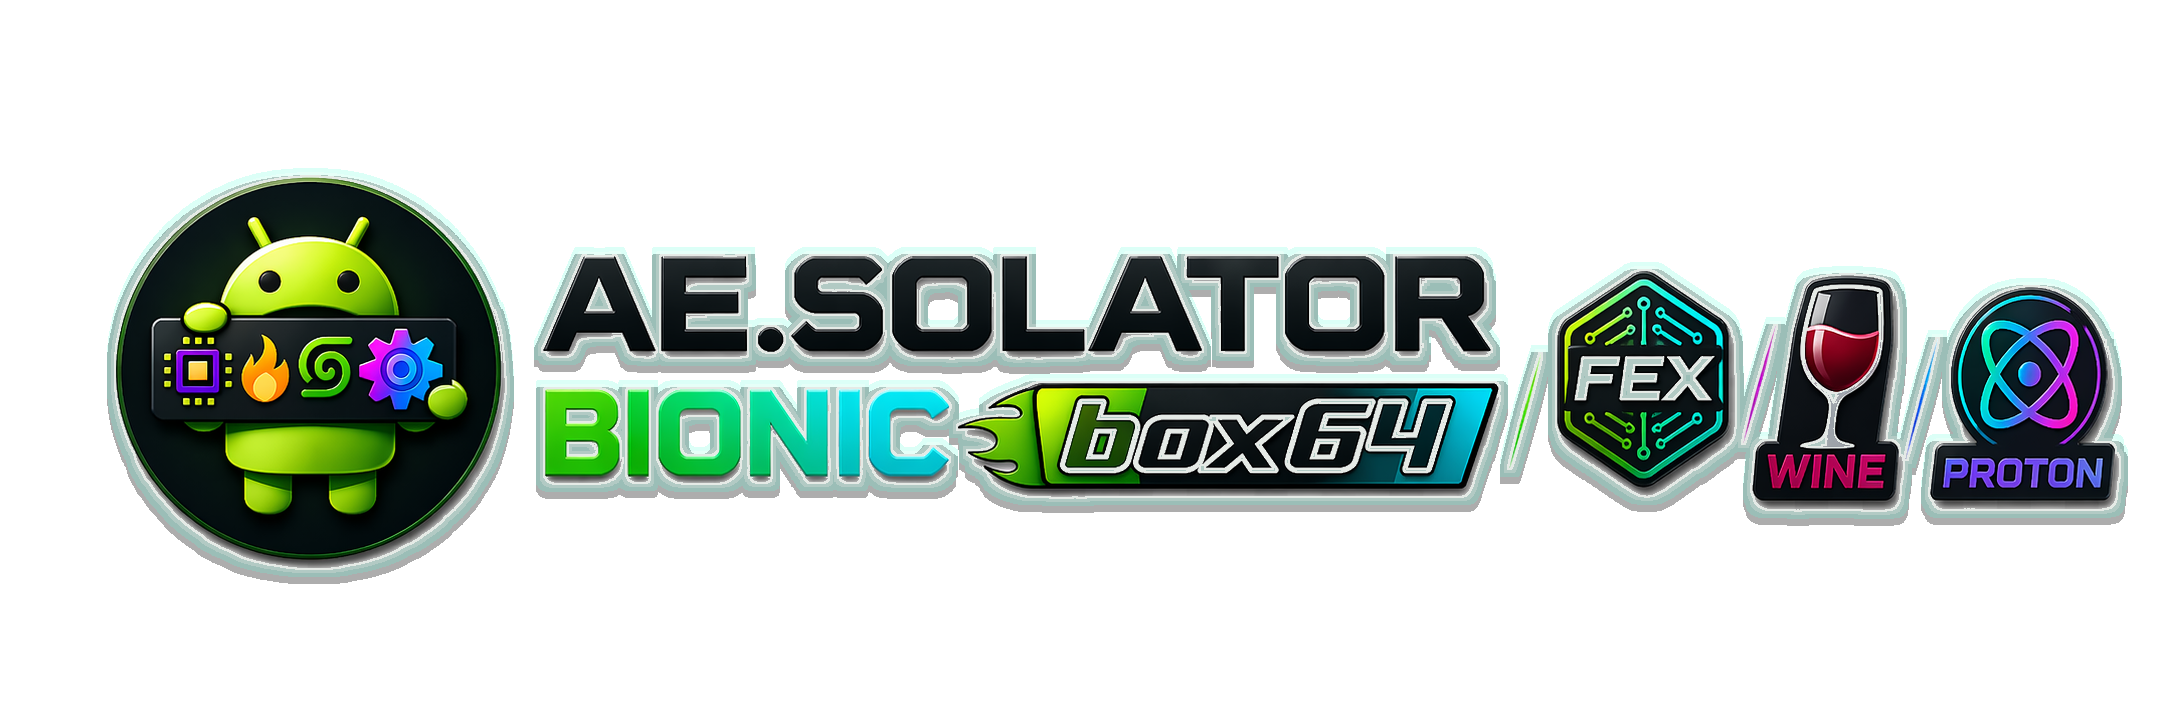
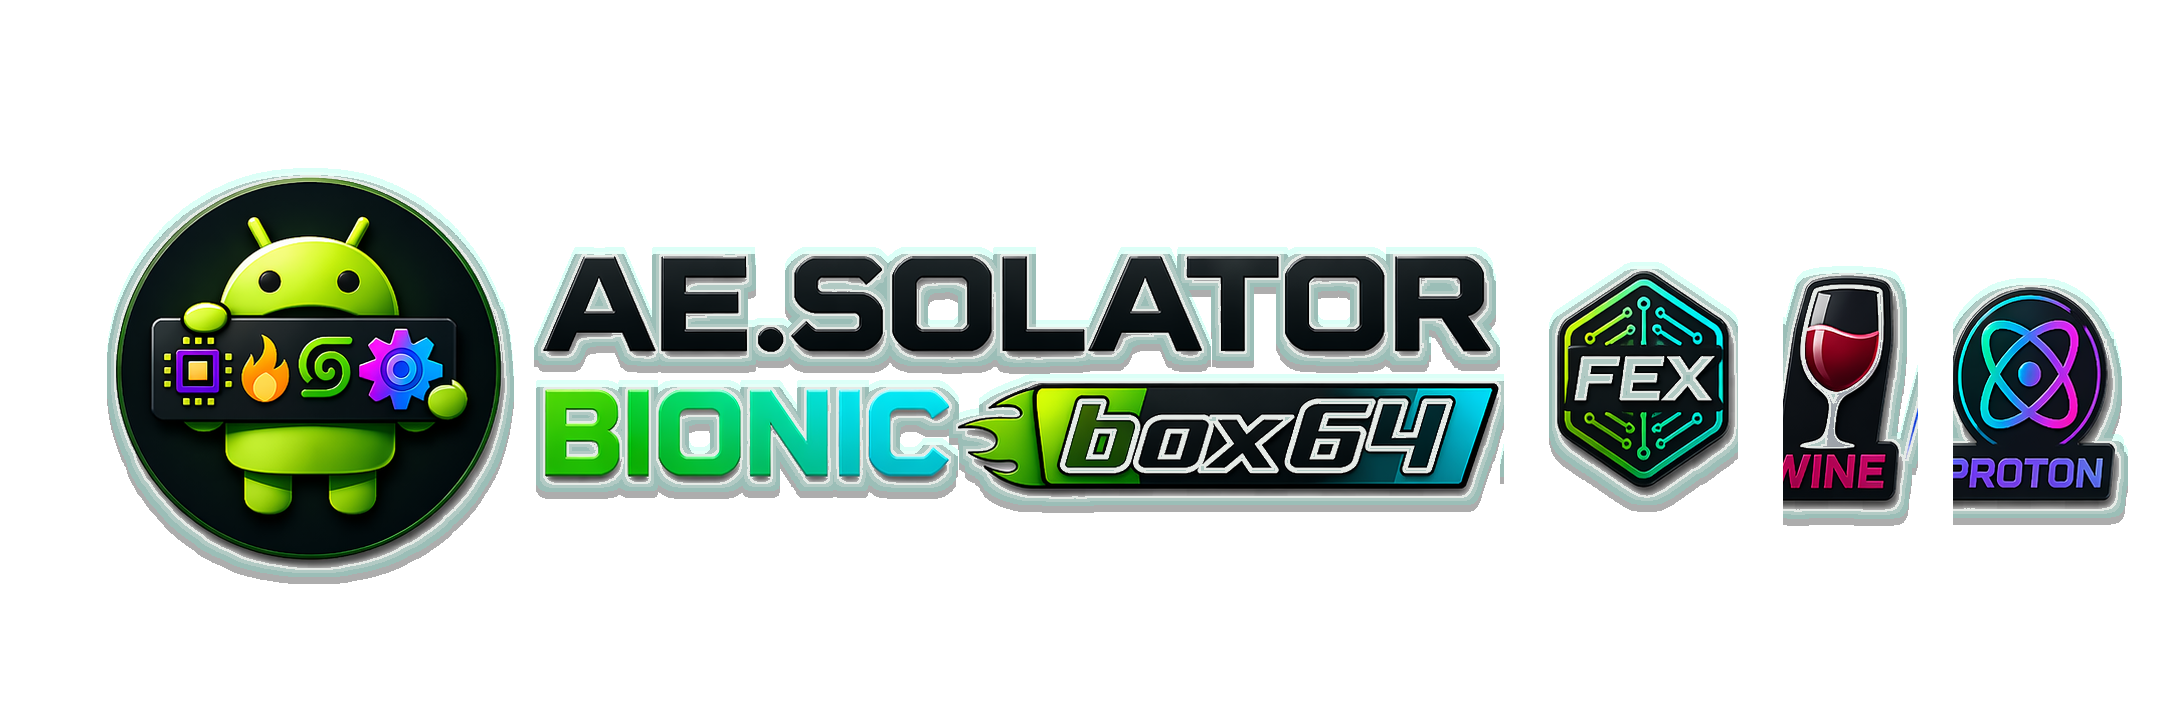
Fix Aesolator CI packaging path

Changed region(s): [[0.8637, 0.4558, 0.9254, 0.7293], [0.802, 0.4254, 0.8329, 0.7293], [0.6786, 0.4862, 0.7403, 0.6685]]

diff --git a/app/src/main/java/com/winlator/cmod/XServerDisplayActivity.java b/app/src/main/java/com/winlator/cmod/XServerDisplayActivity.java
@@ -2586,7 +2586,7 @@ public class XServerDisplayActivity extends AppCompatActivity {
         if (xserverRootView != null) ThemeAssetPainter.apply(this, xserverRootView, isDarkMode);
     }
 
-    private String trimToEmpty(@Nullable String value) {
+    private static String trimToEmpty(@Nullable String value) {
         return value == null ? "" : value.trim();
     }
 

diff --git a/docs/BLACK_DIAMOND_ASSET_PACK_IMPORT_2026-04-24.md b/docs/BLACK_DIAMOND_ASSET_PACK_IMPORT_2026-04-24.md
@@ -39,6 +39,8 @@
   inside letterforms and separators.
 - Added a light/cyan outer rim plus a soft dark shadow so the banner remains
   legible on dark README, release, and app-gallery backgrounds.
+- Removed the decorative slash separators between `box64`, `FEX`, `WINE`,
+  and `PROTON`; those product marks now stand as independent icons.
 - Mirrored the same hardened bytes to `docs/assets/winlator-cmod-aesolator-logo.png`,
   root `logo.png`, and the WCP Archive banner mirrors.
 
